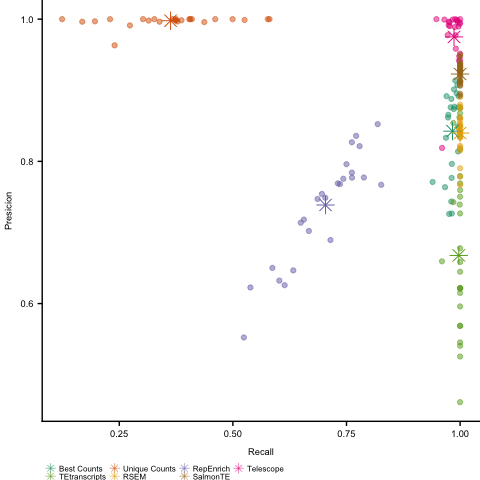
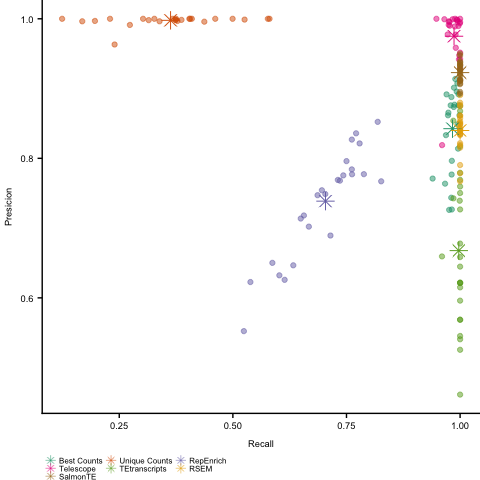
Adding percentage of Others and Unassing

diff --git a/Images.md b/Images.md
@@ -23,6 +23,7 @@ library(ggplot2)
 library(cowplot)
 library(ggsignif)
 library("RColorBrewer")
+library(knitr)
 
 
 data<-read.table("allSim_numbers.txt", skip=1, col.names = c("locus","best_counts","uni_counts","repenrich_counts","telescope","tetr_counts","RSEM","SalmonTE","real"))
@@ -71,6 +72,60 @@ plot_grid(puniq,pbest,pRepEn,pTEt,pREM,pSalm,pTele,  nrow = 2)
 ```
 
 ![](Images_files/figure-markdown_github/fig1-1.png)
+
+In terms of percentage, unassinged reads were expected to be
+
+    ## [1] "21.43 %"
+
+Nevertheless, the different algorithms tested show different distributions:
+
+``` r
+per_unassigned<-(data[grep(data$locus,pattern = '__no_feature'),2:8]/2100*100)
+colnames(per_unassigned)<-c("Best Counts","Unique Counts","RepEnrich","Telescope","TEtranscript","RSEM","SalmonTE")
+per_unassigned_plot<-stack(as.data.frame(per_unassigned))
+ggplot(data = per_unassigned_plot, aes(x=ind,y=values, fill=ind) )+
+  geom_boxplot()+ggtitle("Unassinged Reads")+
+  scale_fill_manual(values = colorp)+
+  ylab("Percentage")+
+  theme(legend.position="none",axis.text.x = element_text(angle=45,hjust = 1,lineheight = 0.7),axis.title.x=element_blank())
+```
+
+![](Images_files/figure-markdown_github/per1-1.png)
+
+|               |    Min|  1st Qu|  Median|     Mean|  3rd Qu|    Max|
+|---------------|------:|-------:|-------:|--------:|-------:|------:|
+| Best Counts   |  20.95|   21.86|   22.48|  22.5160|   22.86|  25.14|
+| Unique Counts |  54.38|   67.81|   70.57|  71.4436|   76.24|  90.24|
+| RepEnrich     |  32.33|   37.05|   38.76|  40.0608|   42.90|  48.76|
+| Telescope     |  20.38|   21.57|   22.14|  22.3956|   23.24|  25.52|
+| TEtranscript  |   5.81|   13.76|   17.57|  16.7068|   20.43|  23.52|
+| RSEM          |   5.29|   10.33|   13.14|  12.3156|   14.14|  16.81|
+| SalmonTE      |  14.76|   15.48|   16.38|  16.6956|   18.14|  19.43|
+
+Another aspect to evaluete are the reads mapped to "Other" HML2 locus, which are loci with 0 read counts. The distribution in terms of percentage of reads mapped to other loci looks like this:
+
+``` r
+per_other<-(data[grep(data$locus,pattern = 'Others'),2:8]/2100*100)
+colnames(per_other)<-c("Best Counts","Unique Counts","RepEnrich","Telescope","TEtranscript","RSEM","SalmonTE")
+per_other_plot<-stack(as.data.frame(per_other))
+ggplot(data = per_other_plot, aes(x=ind,y=values, fill=ind) )+
+  geom_boxplot()+ggtitle("Reads Mapped to Other Locus")+
+  scale_fill_manual(values = colorp)+
+  ylab("Percentage")+
+  theme(legend.position="none",axis.text.x = element_text(angle=45,hjust = 1,lineheight = 0.7),axis.title.x=element_blank())
+```
+
+![](Images_files/figure-markdown_github/per2-1.png)
+
+|               |   Min|  1st Qu|  Median|     Mean|  3rd Qu|    Max|
+|---------------|-----:|-------:|-------:|--------:|-------:|------:|
+| Best Counts   |  6.71|    8.67|   10.29|  12.1280|   15.76|  21.14|
+| Unique Counts |  0.00|    0.00|    0.00|   0.0636|    0.05|   0.71|
+| RepEnrich     |  9.62|   13.90|   14.81|  15.6496|   18.86|  23.43|
+| Telescope     |  0.00|    0.00|    0.05|   0.0620|    0.05|   0.57|
+| TEtranscript  |  9.43|   20.00|   26.52|  27.2600|   32.67|  44.52|
+| RSEM          |  7.95|   10.57|   12.19|  12.6436|   14.10|  19.76|
+| SalmonTE      |  2.86|    4.76|    5.29|   5.5612|    6.52|   8.57|
 
 All reads can be divided in two categories, depending from where they come from, HML2 reads or non-TE reads. Those reads can then be correctly or incorrectly mapped,depending of the outcome of the counting method, leading to 4 different categories: a) reads map to HML2 correctly (True Positive) b) reads map to HML2 incorrectly (False Positive) c) reads not mapped correctly (True Negative) d) reads not mapped incorrectly (False Negative)
 
@@ -144,7 +199,7 @@ pres<-ggplot(data=forplt,aes(x=Recall,y=Presicion, colour=Counting))+
   geom_point(alpha=0.5, size=1.5)+
   scale_color_manual(values=colorp)+
   geom_point(data=forplt2,aes(x=Recall,y=Presicion),shape=8, size=4,show.legend=FALSE)+
-  guides(colour=guide_legend(nrow=2, byrow = T ,override.aes = list(size=2, shape=8)))+
+  guides(colour=guide_legend(nrow=3, byrow = T ,override.aes = list(size=2, shape=8)))+
   theme(text = element_text(size=7),
         legend.position = "bottom",
         legend.title = element_blank(),
@@ -168,8 +223,8 @@ f1<-ggplot(F1_score, aes(x=F1, color=Counting, fill=Counting))+
   geom_density()+
   scale_color_manual(values=colorp)+
   scale_fill_manual(values=alpha(colorp,0.5))+
-  xlab("F1 score")+
-  guides(colour=guide_legend(nrow=2, byrow = T, keywidth = 0.5, keyheight = 0.5))+
+  xlab("F1 score")+ ylab("Density")+
+  guides(colour=guide_legend(nrow=3, byrow = T, keywidth = 0.5, keyheight = 0.5))+
   theme(text = element_text(size=7),
         legend.position = "bottom",
         legend.justific ="center",
